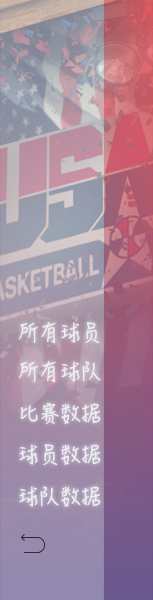
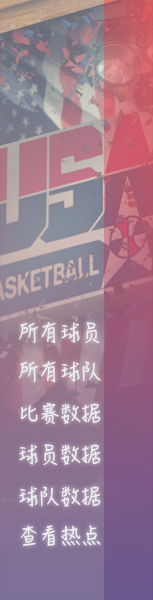
改了边栏

diff --git a/Nbalabala/src/ui/common/panel/LeftPanel.java b/Nbalabala/src/ui/common/panel/LeftPanel.java
@@ -38,7 +38,7 @@ public class LeftPanel extends Panel {
 	private static final String trans = URL + "trans.png";
 	private static final String on = URL + "mouseOn.png";
 	/** button */
-	private ImgButton allPlayers, allTeams, game, playerData, returnButton, teamData;
+	private ImgButton allPlayers, allTeams, game, playerData, returnButton, teamData, hot;
 	/** button数组 */
 	private ImgButton[] buttonArr;
 	private MouListener mou = new MouListener();
@@ -60,7 +60,7 @@ public class LeftPanel extends Panel {
 	 * @version 2015年3月20日 上午12:02:28
 	 */
 	public void setButton() {
-		returnButton = new ImgButton(URL + "return.png", 13, 529, URL + "returnOn.png", URL
+		returnButton = new ImgButton(URL + "return.png", 119, 557, URL + "returnOn.png", URL
 				+ "returnClick.png");
 
 		allPlayers = new ImgButton(trans, x, y, on, on);
@@ -68,6 +68,7 @@ public class LeftPanel extends Panel {
 		game = new ImgButton(trans, x, y + 2 * inter, on, on);
 		playerData = new ImgButton(trans, x, y + 3 * inter, on, on);
 		teamData = new ImgButton(trans, x, y + 4 * inter, on, on);
+		hot = new ImgButton(trans, x, y + 5 * inter, on, on);
 //		buttonArr = new ImgButton[]{allPlayers,allTeams,game,playerData,teamData,returnButton};
 //		for (int i = 0; i < buttonArr.length; i++) {
 //			buttonArr[i] = new ImgButton(trans, x, i * inter + y, on, on);
@@ -78,7 +79,7 @@ public class LeftPanel extends Panel {
 	}
 	
 	public void addButton(){
-		buttonArr = new ImgButton[]{allPlayers,allTeams,game,playerData,teamData,returnButton};
+		buttonArr = new ImgButton[]{allPlayers,allTeams,game,playerData,teamData,hot,returnButton};
 		for(int i =0;i<buttonArr.length;i++){
 			this.add(buttonArr[i]);
 			buttonArr[i].addMouseListener(mou);
@@ -97,7 +98,9 @@ public class LeftPanel extends Panel {
 				 MainController.toPlayerPanel(panel);
 			 }else if(e.getSource() == teamData){
 				 MainController.toTeamPanel(panel);
-			 }else if(e.getSource() == returnButton){
+			 }else if (e.getSource() == hot) {
+				MainController.toHotPanel(panel);
+			}else if(e.getSource() == returnButton){
 				 MainController.toMainPanel(panel);
 			 }
 		 }
